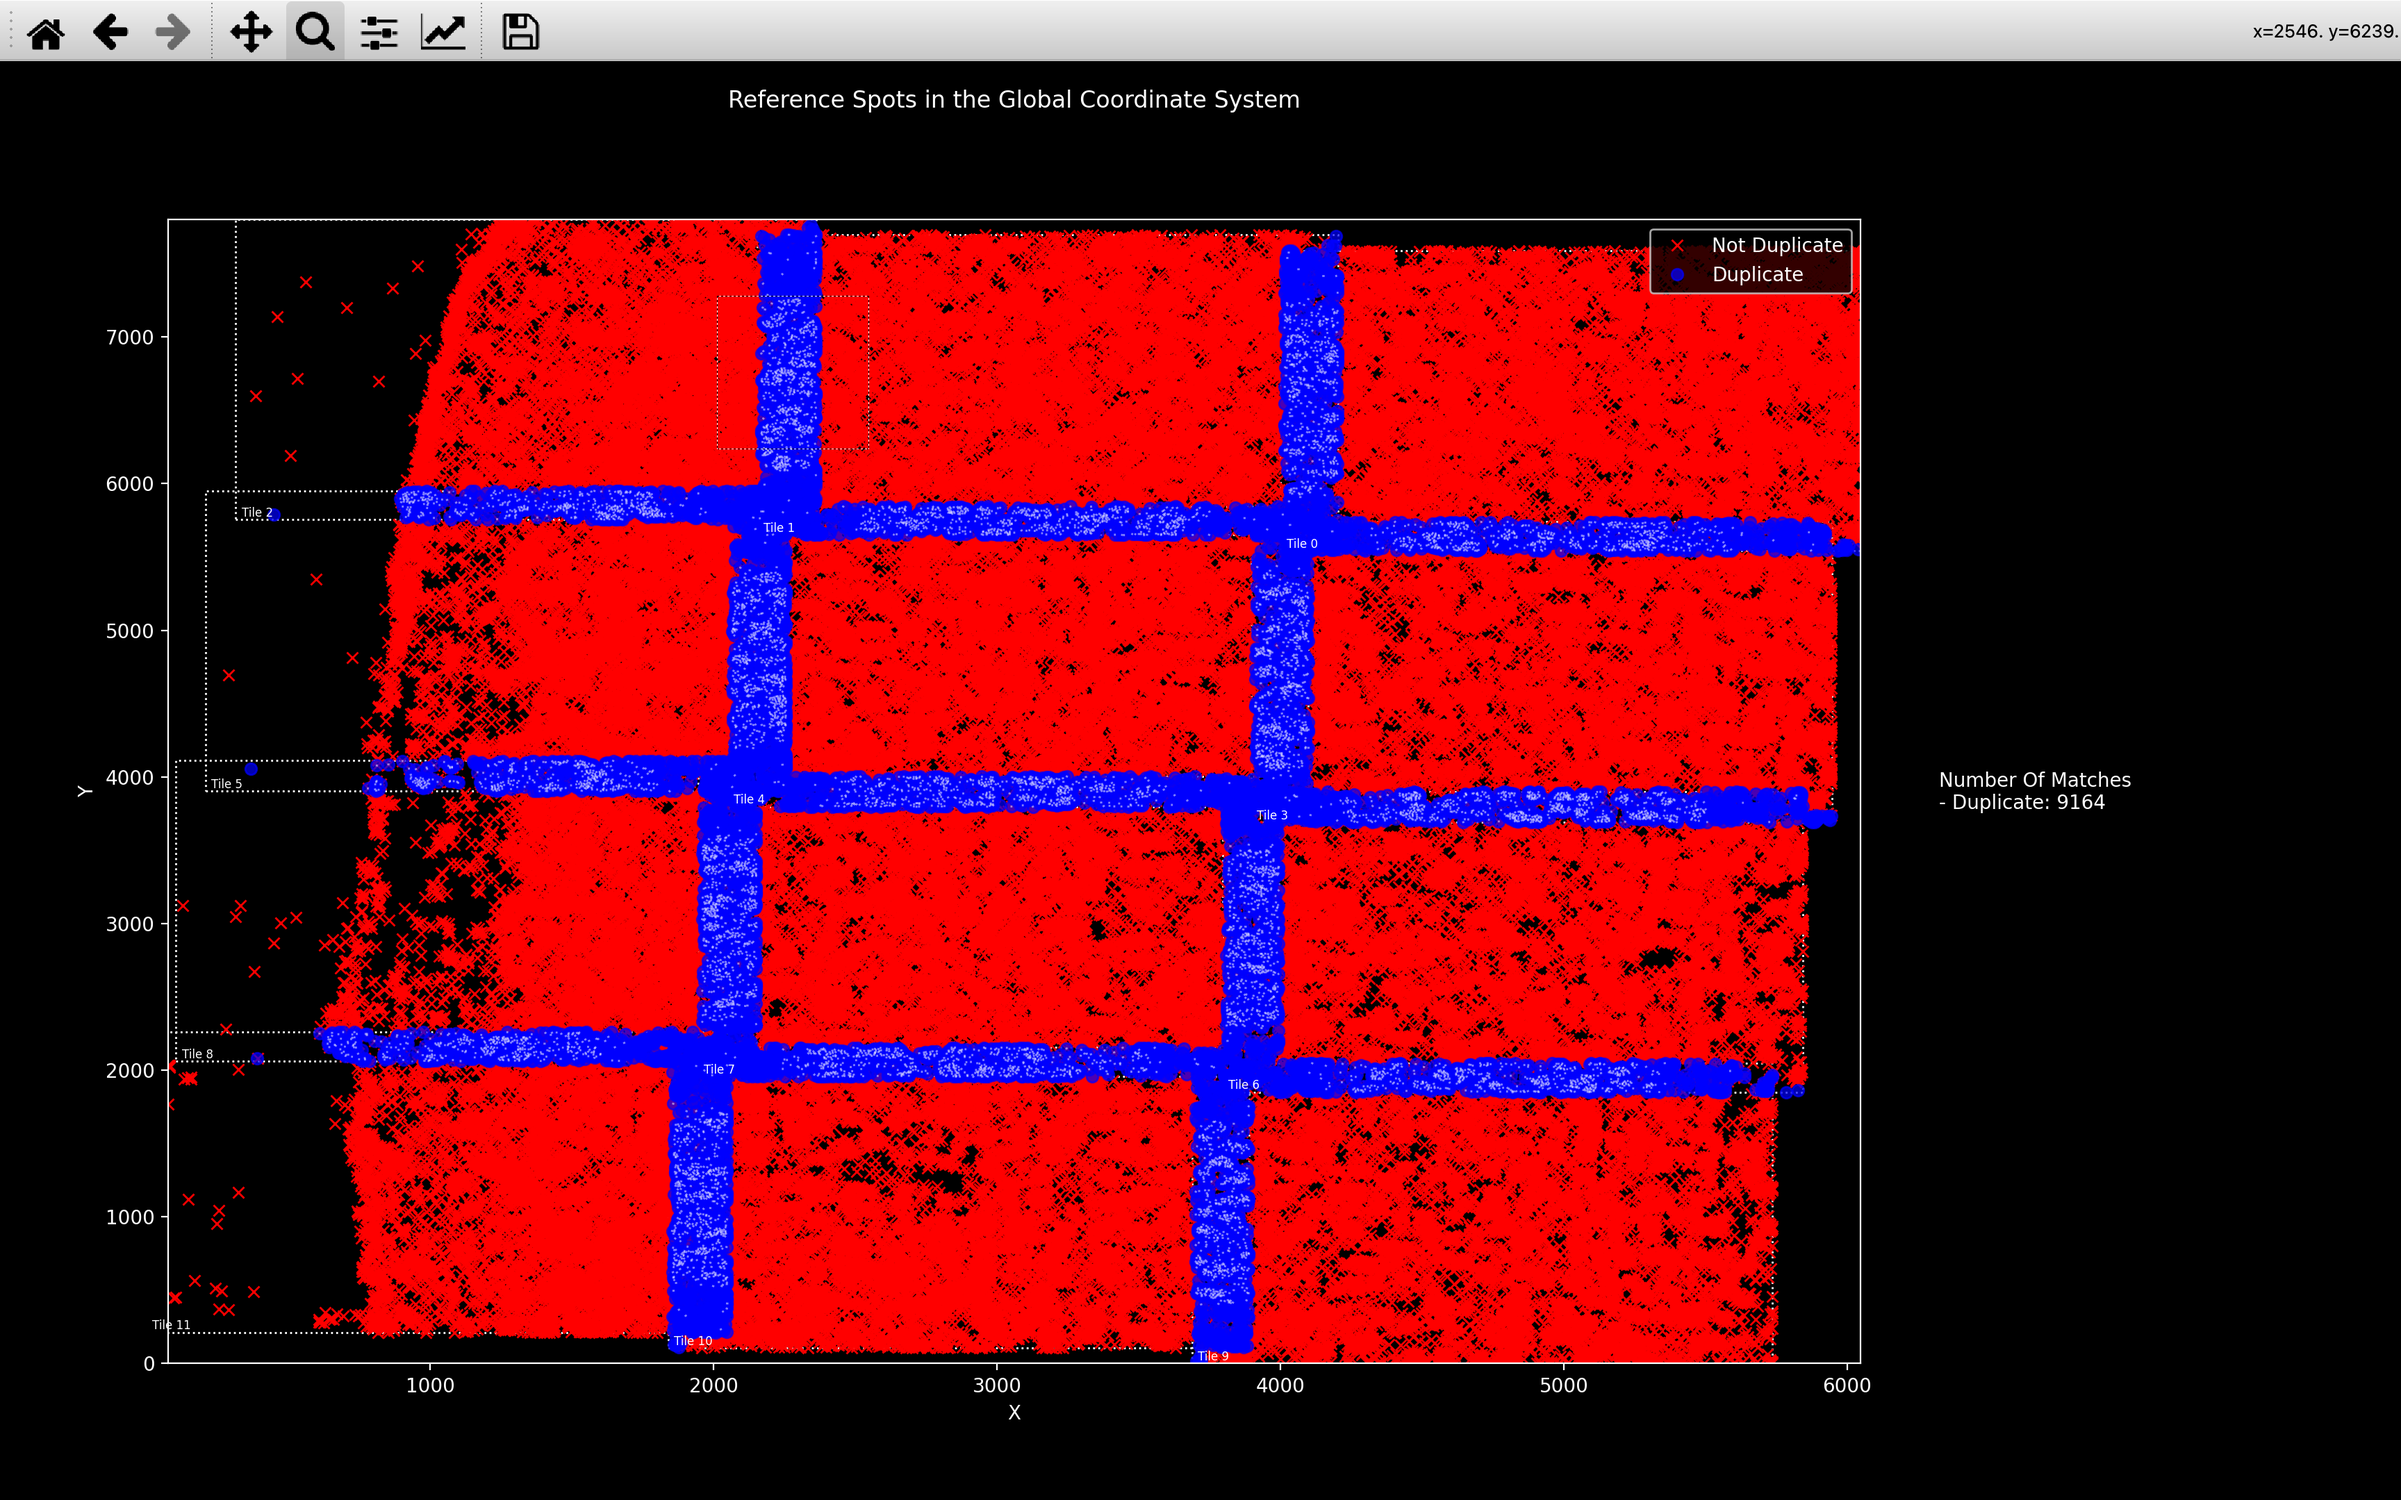
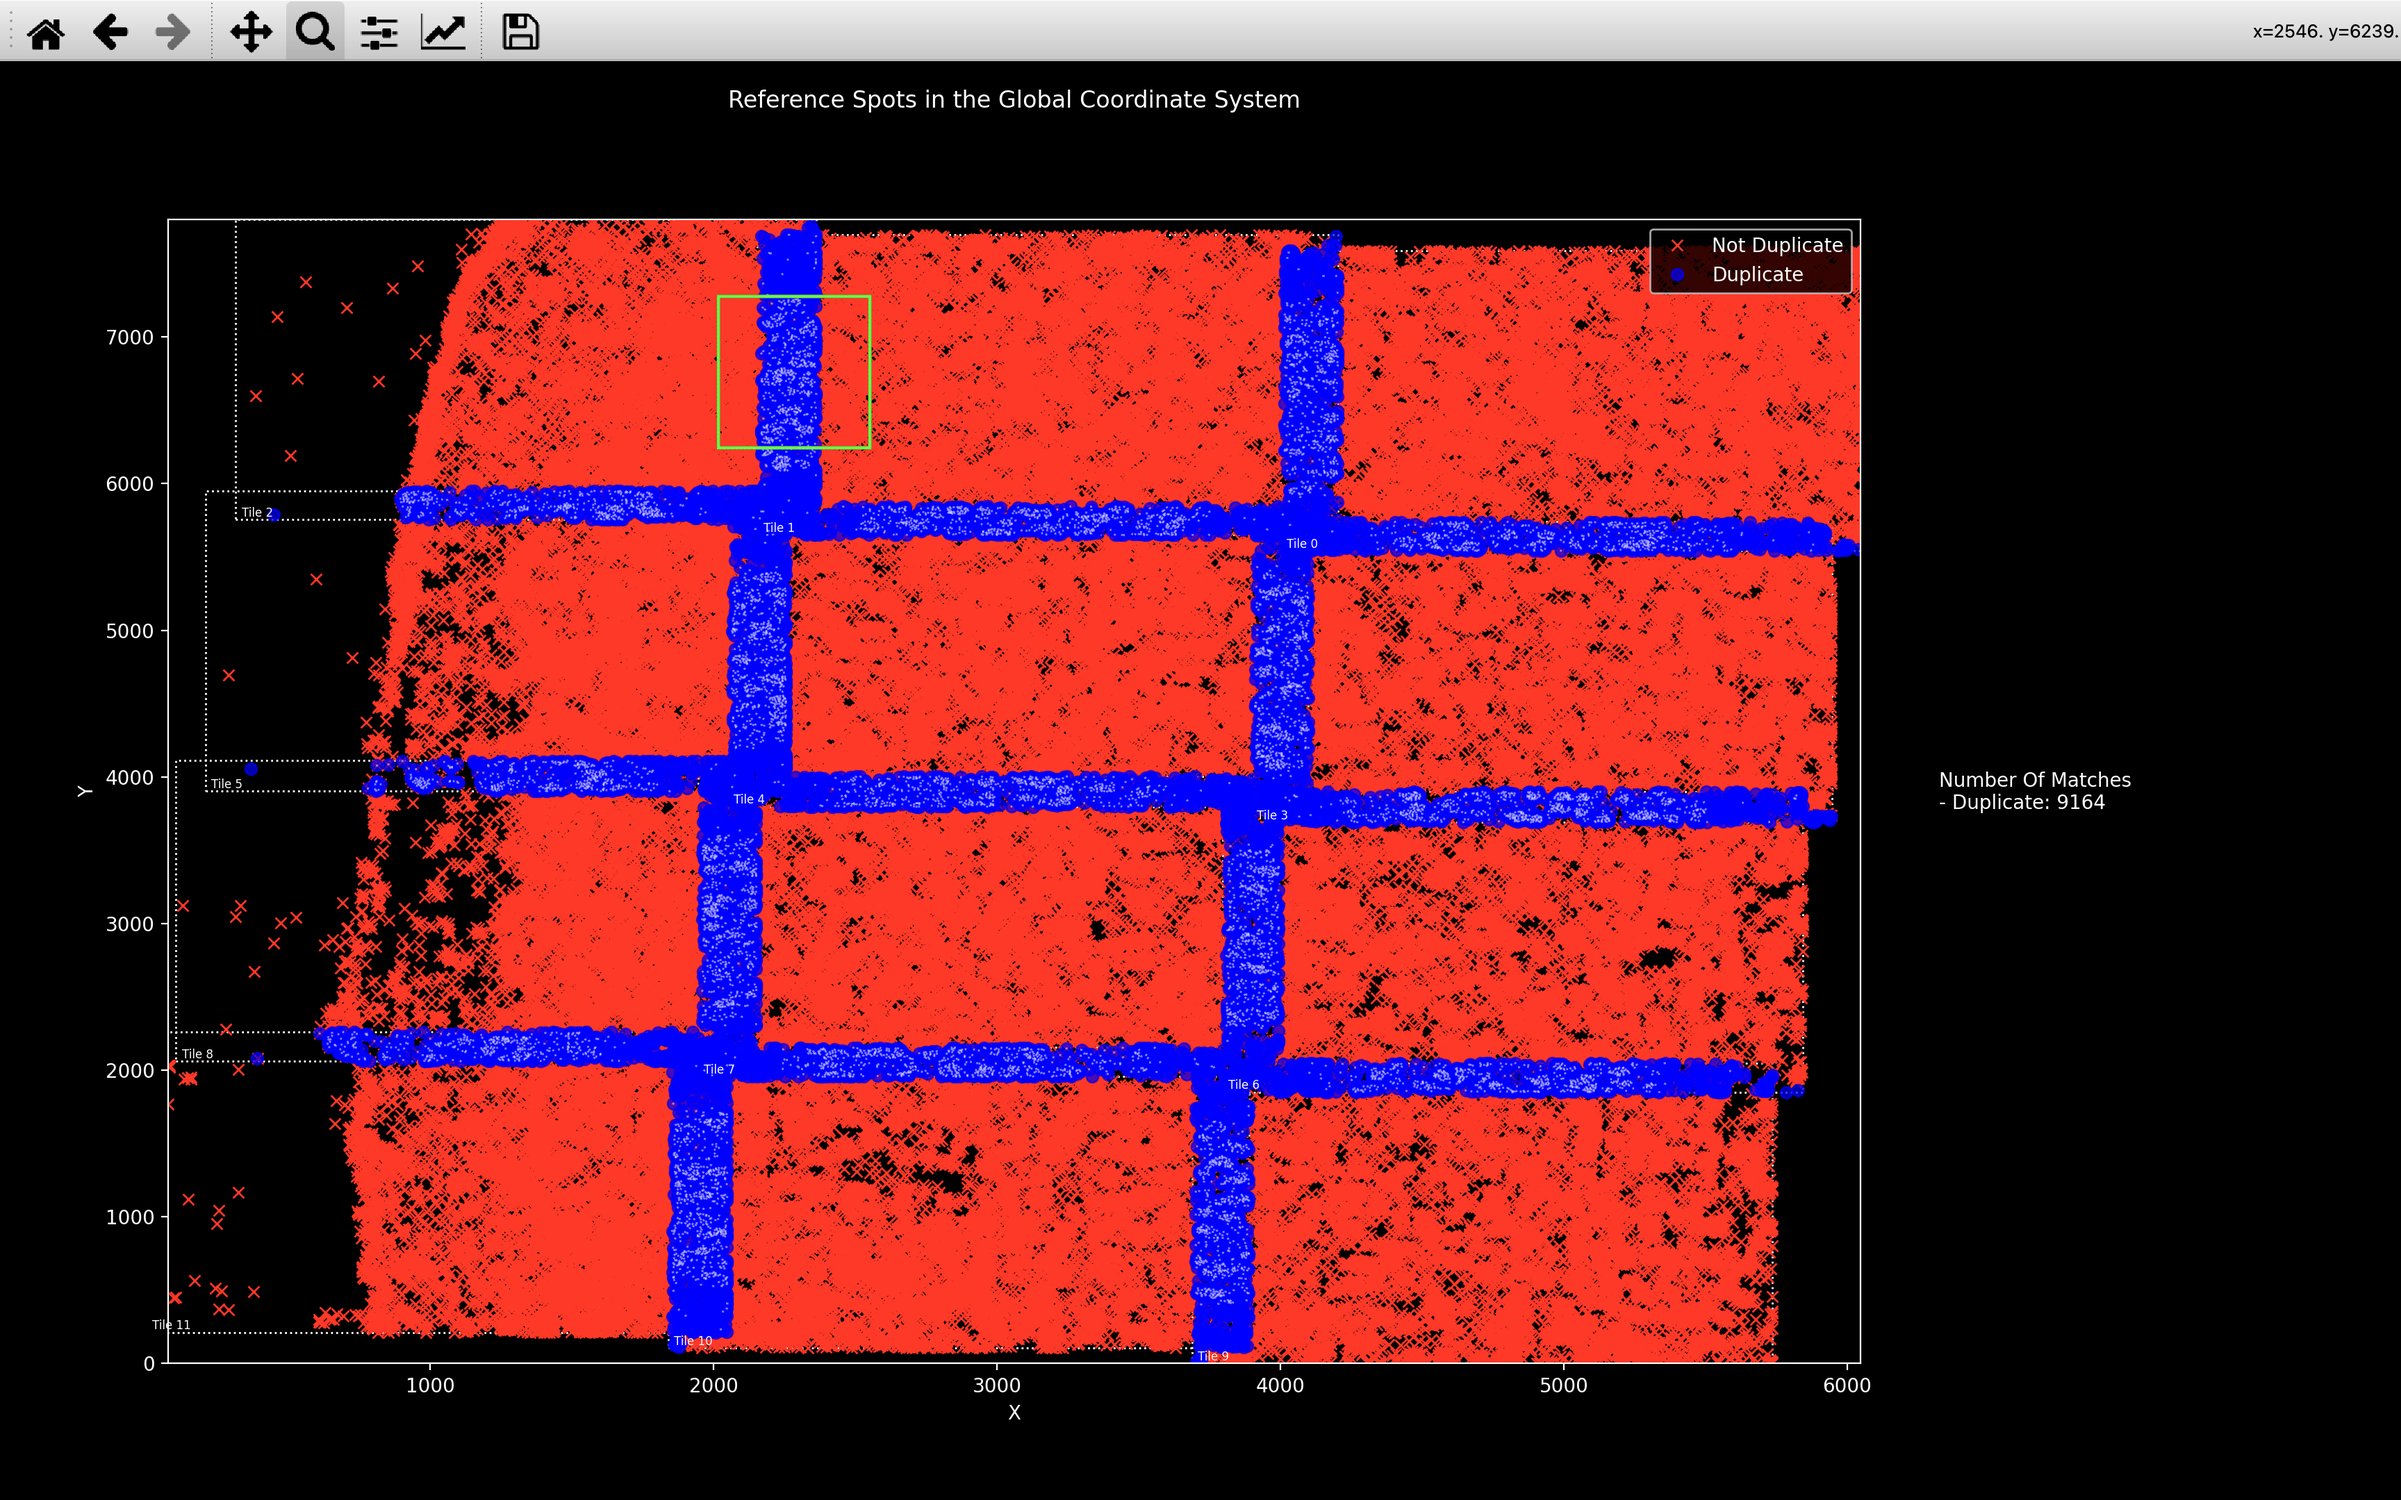
Change box color in view_stitch docs

diff --git a/docs/pipeline/stitch.md b/docs/pipeline/stitch.md
@@ -640,7 +640,7 @@ The example below is for a $4\times3$ grid of tiles in *2D*.
 The blue spots are duplicate spots (detected on a tile which is not the tile whose centre they are closest to).
 For each duplicate spot, we expect there is a non-duplicate spot in red, detected on a different tile
 but with the same global coordinate. We can see this in the *Zoom* plot showing the intersection between tile 1 and 
-tile 2 (indicated by a faint white box in the *Full* image).
+tile 2 (indicated by a green box in the *Full* image).
 
 These duplicate spots will be removed in the `get_reference_spots` step of the pipeline, so we don't double count
 the same spot.
